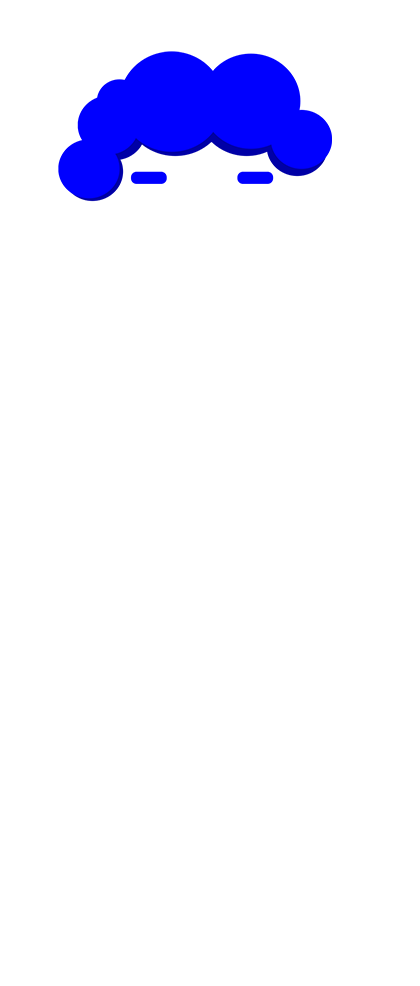
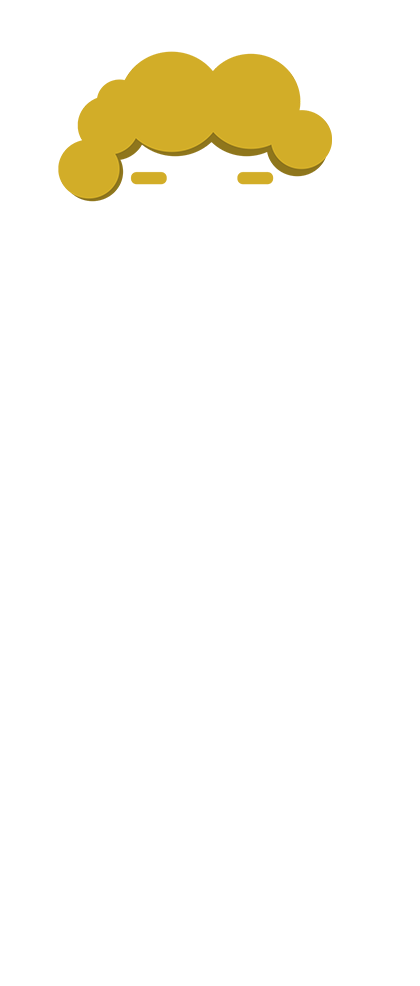
eye-and-hair-colors

Changed region(s): [[0.1238, 0.0304, 0.8048, 0.213]]

diff --git a/src/avatar/Hair.js b/src/avatar/Hair.js
@@ -1,22 +1,106 @@
 import React from 'react';
 import { Image, View } from 'react-native';
+import { useEffect, useState } from "react";
 
 const hairImages = {
   hair1: require('../../assets/avatar/hair/1/10.png'),
   hair2: require('../../assets/avatar/hair/2/10.png'),
+  hair3: require('../../assets/avatar/hair/3/10.png'),
+  hair4: require('../../assets/avatar/hair/4/10.png'),
 };
 
-function hair(option) {
-  const imageSource = hairImages[`hair${option}`];
+const hair1colors = {
+  1: require('../../assets/avatar/hair/1/1.png'),
+  2: require('../../assets/avatar/hair/1/2.png'),
+  3: require('../../assets/avatar/hair/1/3.png'),
+  4: require('../../assets/avatar/hair/1/4.png'),
+  5: require('../../assets/avatar/hair/1/5.png'),
+  6: require('../../assets/avatar/hair/1/6.png'),
+  7: require('../../assets/avatar/hair/1/7.png'),
+  8: require('../../assets/avatar/hair/1/8.png'),
+  9: require('../../assets/avatar/hair/1/9.png'),
+  10: require('../../assets/avatar/hair/1/10.png'),
+};
 
-  return <Image source={imageSource} resizeMode="contain" style={{
-    width: '100%',
-    height: '95%',
-    position: 'absolute',
-    top: 0
-  }} />
-}
+const hair2colors = {
+  1: require('../../assets/avatar/hair/2/1.png'),
+  2: require('../../assets/avatar/hair/2/2.png'),
+  3: require('../../assets/avatar/hair/2/3.png'),
+  4: require('../../assets/avatar/hair/2/4.png'),
+  5: require('../../assets/avatar/hair/2/5.png'),
+  6: require('../../assets/avatar/hair/2/6.png'),
+  7: require('../../assets/avatar/hair/2/7.png'),
+  8: require('../../assets/avatar/hair/2/8.png'),
+  9: require('../../assets/avatar/hair/2/9.png'),
+  10: require('../../assets/avatar/hair/2/10.png'),
+};
 
-export default function Hair({ hairType }) {
-  return hair(hairType);
+const hair3colors = {
+  1: require('../../assets/avatar/hair/3/1.png'),
+  2: require('../../assets/avatar/hair/3/2.png'),
+  3: require('../../assets/avatar/hair/3/3.png'),
+  4: require('../../assets/avatar/hair/3/4.png'),
+  5: require('../../assets/avatar/hair/3/5.png'),
+  6: require('../../assets/avatar/hair/3/6.png'),
+  7: require('../../assets/avatar/hair/3/7.png'),
+  8: require('../../assets/avatar/hair/3/8.png'),
+  9: require('../../assets/avatar/hair/3/9.png'),
+  10: require('../../assets/avatar/hair/3/10.png'),
+};
+
+const hair4colors = {
+  1: require('../../assets/avatar/hair/4/1.png'),
+  2: require('../../assets/avatar/hair/4/2.png'),
+  3: require('../../assets/avatar/hair/4/3.png'),
+  4: require('../../assets/avatar/hair/4/4.png'),
+  5: require('../../assets/avatar/hair/4/5.png'),
+  6: require('../../assets/avatar/hair/4/6.png'),
+  7: require('../../assets/avatar/hair/4/7.png'),
+  8: require('../../assets/avatar/hair/4/8.png'),
+  9: require('../../assets/avatar/hair/4/9.png'),
+  10: require('../../assets/avatar/hair/4/10.png'),
+};
+
+export default function hair({ hairType, hairColor }) {
+
+  const [imageSource, setImageSource] = useState(hairImages[`hair${hairType}`]);
+
+  useEffect(() => {
+    setImageSource(hairImages[`hair${hairType}`]);
+  }, [hairType]);
+
+  useEffect(() => {
+    if (hairType && hairColor) {
+      var sourceURL;
+      switch (hairType) {
+        case 1:
+          sourceURL = hair1colors[hairColor];
+          break;
+        case 2:
+          sourceURL = hair2colors[hairColor];
+          break;
+        case 3:
+          sourceURL = hair3colors[hairColor];
+          break;
+        case 4:
+          sourceURL = hair4colors[hairColor];
+          break;
+
+        default:
+          break;
+      }
+      if (sourceURL) {
+        setImageSource(sourceURL);
+      }
+    }
+  }, [hairColor]);
+
+  return <>
+    <Image source={imageSource} resizeMode="contain" style={{
+      width: '100%',
+      height: '95%',
+      position: 'absolute',
+      top: 0
+    }} />
+  </>
 }

diff --git a/src/screens/AvatarPage.js b/src/screens/AvatarPage.js
@@ -15,16 +15,19 @@ import { useFocusEffect } from '@react-navigation/native';
 
 import SkinColor from '../avatar/SkinColor';
 import Hair from '../avatar/Hair';
+import Eyes from '../avatar/Eyes';
 
 const hairImages = {
   hair1: require('../../assets/avatar/hair/1/10.png'),
   hair2: require('../../assets/avatar/hair/2/10.png'),
+  hair3: require('../../assets/avatar/hair/3/10.png'),
+  hair4: require('../../assets/avatar/hair/4/10.png'),
 };
 
 export default function AvatarPage () {
 
   const [skinColor, setSkinColor] = useState(3);
-  const [eyeColor, setEyeColor] = useState(10);
+  const [eyeColor, setEyeColor] = useState(0);
   const [hairType, setHairType] = useState(0);
   const [hairColor, setHairColor] = useState(0);
 
@@ -110,6 +113,19 @@ export default function AvatarPage () {
                         maxHeight: '280%'
                       }} />
                     </TouchableOpacity>
+                    <TouchableOpacity style={[styles.hairOption, { backgroundColor: '#ccc' } ]} onPress={() => setHairType(3)}>
+                      <Image source={hairImages['hair3']} resizeMode="contain" style={{
+                        width: '110%',
+                        maxHeight: '280%',
+                        marginLeft: 5
+                      }} />
+                    </TouchableOpacity>
+                    <TouchableOpacity style={[styles.hairOption, { backgroundColor: '#ccc' } ]} onPress={() => setHairType(4)}>
+                      <Image source={hairImages['hair4']} resizeMode="contain" style={{
+                        width: '110%',
+                        maxHeight: '280%'
+                      }} />
+                    </TouchableOpacity>
                   </View>
                 </ScrollView>
               </>
@@ -141,7 +157,8 @@ export default function AvatarPage () {
         </View>
         <View style={styles.previewSection}>
           <SkinColor skinOption={skinColor}></SkinColor>
-          <Hair hairType={hairType}></Hair>
+          <Hair hairType={hairType} hairColor={hairColor}></Hair>
+          <Eyes eyeColor={eyeColor} ></Eyes>
         </View>
       </LinearGradient>
     </View>

diff --git a/src/avatar/Eyes.js b/src/avatar/Eyes.js
@@ -1,0 +1,34 @@
+import React from 'react';
+import { Image, View } from 'react-native';
+import { useEffect, useState } from "react";
+
+const eyesImages = {
+  eye1: require('../../assets/avatar/eye/1.png'),
+  eye2: require('../../assets/avatar/eye/2.png'),
+  eye3: require('../../assets/avatar/eye/3.png'),
+  eye4: require('../../assets/avatar/eye/4.png'),
+  eye5: require('../../assets/avatar/eye/5.png'),
+  eye6: require('../../assets/avatar/eye/6.png'),
+  eye7: require('../../assets/avatar/eye/7.png'),
+  eye8: require('../../assets/avatar/eye/8.png'),
+  eye9: require('../../assets/avatar/eye/9.png'),
+  eye10: require('../../assets/avatar/eye/10.png')
+};
+
+export default function Eyes({ eyeColor }) {
+
+  const [imageSource, setImageSource] = useState(eyesImages[`eye${eyeColor}`]);
+
+  useEffect(() => {
+    setImageSource(eyesImages[`eye${eyeColor}`]);
+  }, [eyeColor]);
+
+  return <>
+    <Image source={imageSource} resizeMode="contain" style={{
+      width: '100%',
+      height: '95%',
+      position: 'absolute',
+      top: 0
+    }} />
+  </>
+}
